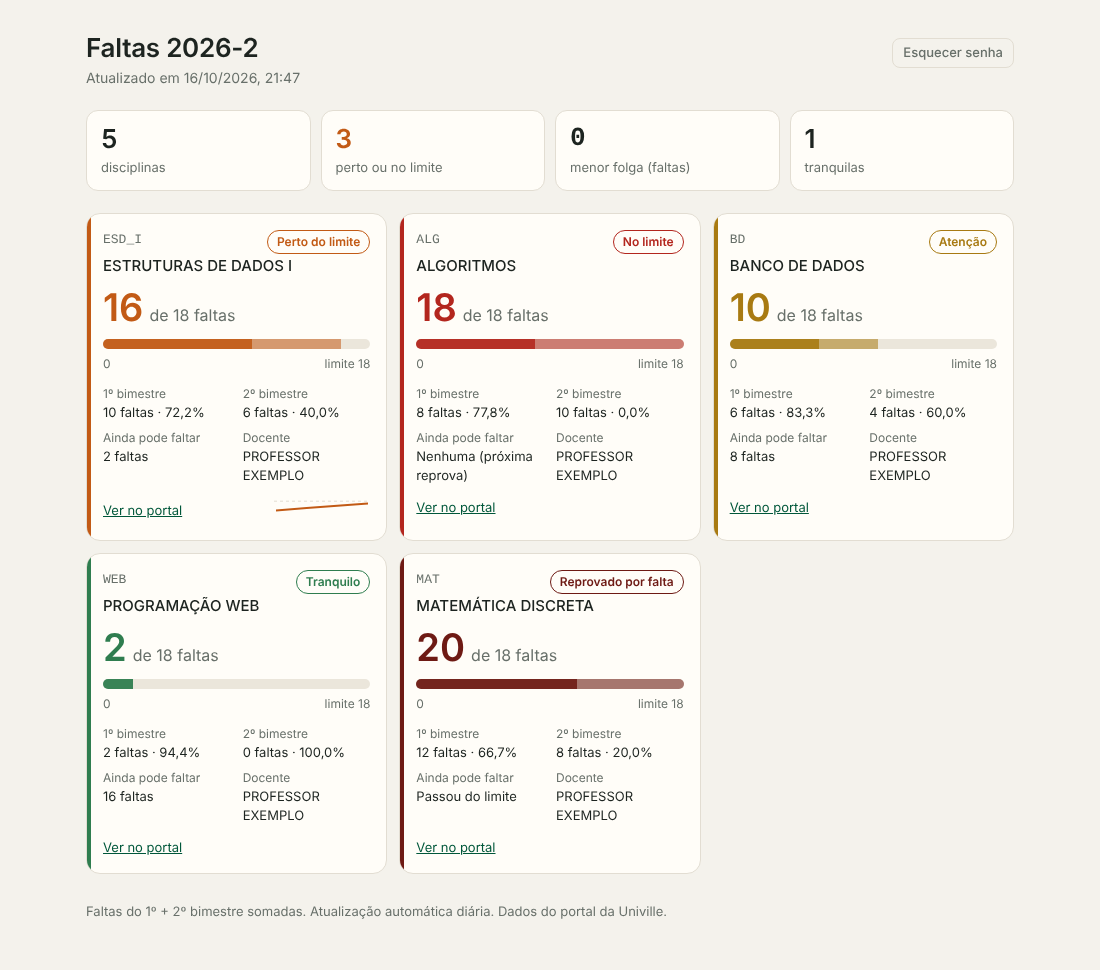
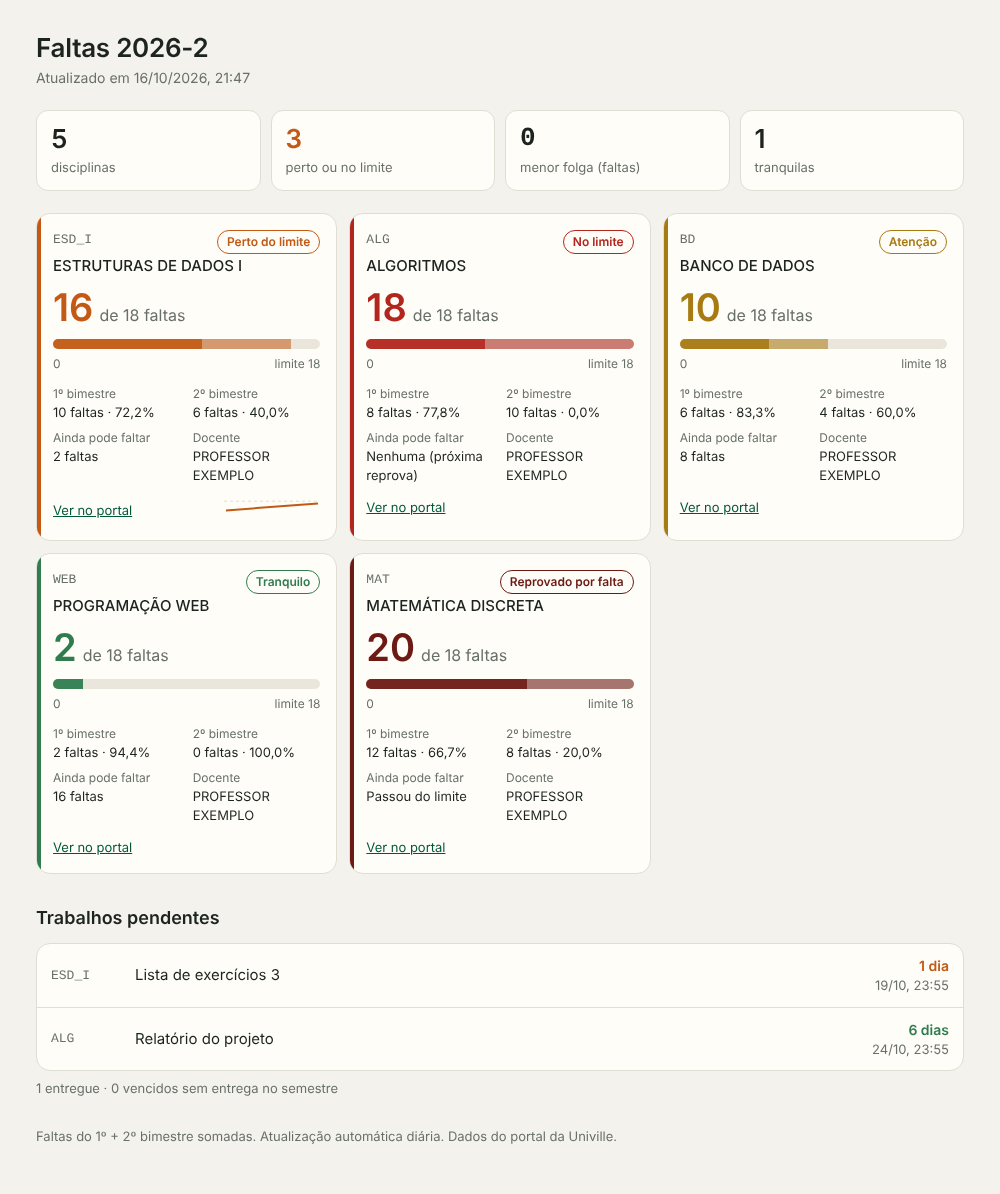
Horário padrão 20h, README com expectativa realista do captcha e imagem do painel com trabalhos
Claude-Session: https://claude.ai/code/session_01SoGHeT3XCHVQ9eZnagZzEq

diff --git a/README.md b/README.md
@@ -24,7 +24,7 @@ O limite padrão é 18 faltas: passou disso, reprova.
 
 O login do portal tem reCAPTCHA do Google. Em servidores (GitHub Actions e parecidos) o Google desconfia do IP e pede o desafio de imagens em toda execução, então não dá pra rodar 100% na nuvem. O script **não tenta burlar o captcha**.
 
-No seu computador ele abre um navegador de verdade e usa sempre o mesmo perfil (`%USERPROFILE%\.monitor-faltas\perfil`). Um navegador que volta todo dia costuma ser reconhecido pelo Google e passa direto. Quando o Google ainda pedir as imagens, a janela fica aberta e você resolve; o script espera até 4 minutos e faz o resto sozinho.
+No seu computador ele abre um navegador de verdade e usa sempre o mesmo perfil (`%USERPROFILE%\.monitor-faltas\perfil`). Isso ajuda um pouco, mas o Google detecta que o navegador está sendo controlado por um programa, então na prática ele pede o desafio de imagens na maioria dos dias. A janela fica aberta, você resolve, e o script espera até 4 minutos e faz o resto sozinho.
 
 A sessão do portal em si não dá pra reaproveitar de um dia pro outro: o cookie de sessão some quando o navegador fecha e expira rápido no servidor.
 
@@ -64,10 +64,10 @@ Ele pergunta matrícula, senha do portal, uma senha pro painel (você inventa), 
 
 - instala o [uv](https://docs.astral.sh/uv/), que baixa um Python portátil (não precisa instalar Python)
 - baixa o código e o navegador (Chromium)
-- cria a tarefa **"Monitor de faltas Univille"** no Agendador: todo dia às 8h. Se o computador estiver desligado nesse horário, roda assim que você ligar
+- cria a tarefa **"Monitor de faltas Univille"** no Agendador: todo dia às 20h. Se o computador estiver desligado nesse horário, roda assim que você ligar. Escolha um horário em que você costuma estar no computador, porque às vezes o Google pede o desafio de imagens e alguém precisa resolver
 - oferece rodar a primeira verificação na hora
 
-Pra trocar o horário, rode o instalador de novo com `$env:MONITOR_HORARIO="19:00";` antes do comando. Rodar o instalador de novo também atualiza o código e mantém a configuração.
+Pra trocar o horário, rode o instalador de novo com `$env:MONITOR_HORARIO="21:30";` antes do comando. Rodar o instalador de novo também atualiza o código e mantém a configuração.
 
 ### 5. Ative o GitHub Pages
 
@@ -165,7 +165,8 @@ Rodar os testes: `pip install -r requirements-dev.txt && python -m pytest`
 
 ## Limitações
 
-- **reCAPTCHA no login.** O perfil salvo reduz bastante os desafios, mas o Google ainda pode pedir as imagens de vez em quando. Se ninguém resolver em 4 minutos, a verificação do dia falha e chega um e-mail de erro
+- **reCAPTCHA no login.** Navegador controlado por programa é detectado pelo Google, então espere o desafio de imagens na maioria dos dias. O perfil salvo pode reduzir um pouco, mas não elimina. Se ninguém resolver em 4 minutos, a verificação do dia falha e chega um e-mail de erro. Por isso o horário da tarefa deve ser um em que você está no computador
+- **Token do GitHub vence.** Quando vencer, os e-mails continuam mas o painel online para de atualizar (o log mostra o erro). Gere outro token e troque no `.env`
 - **Computador precisa ligar.** Se o PC ficar dias desligado, não há verificação nesses dias
 - **Mudança de layout.** Se a Univille mudar o portal, a leitura pode quebrar. Aí chega um e-mail de erro e é preciso ajustar o `parser.py`
 - **Faltas justificadas** aparecem no painel mas não são descontadas do total, porque não está claro como o portal já as considera
